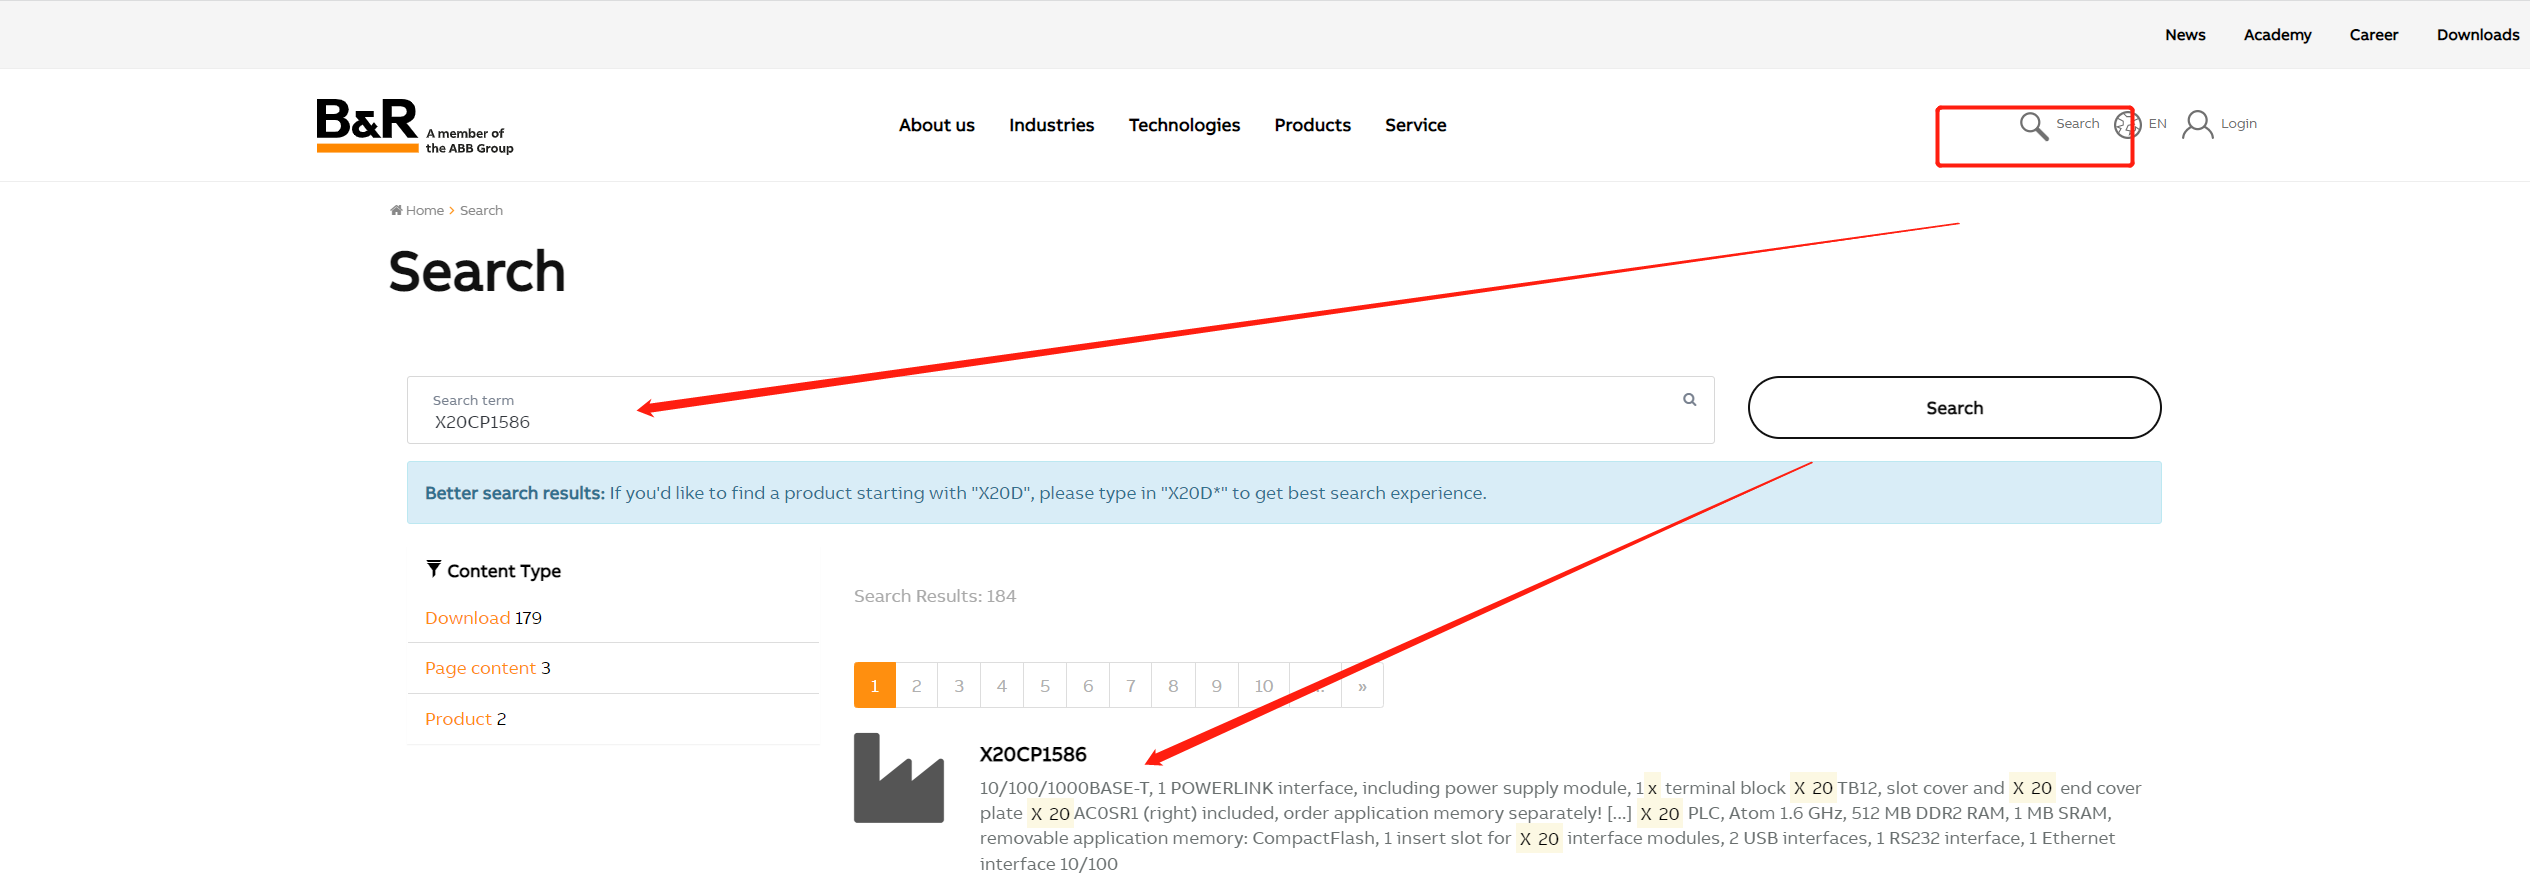
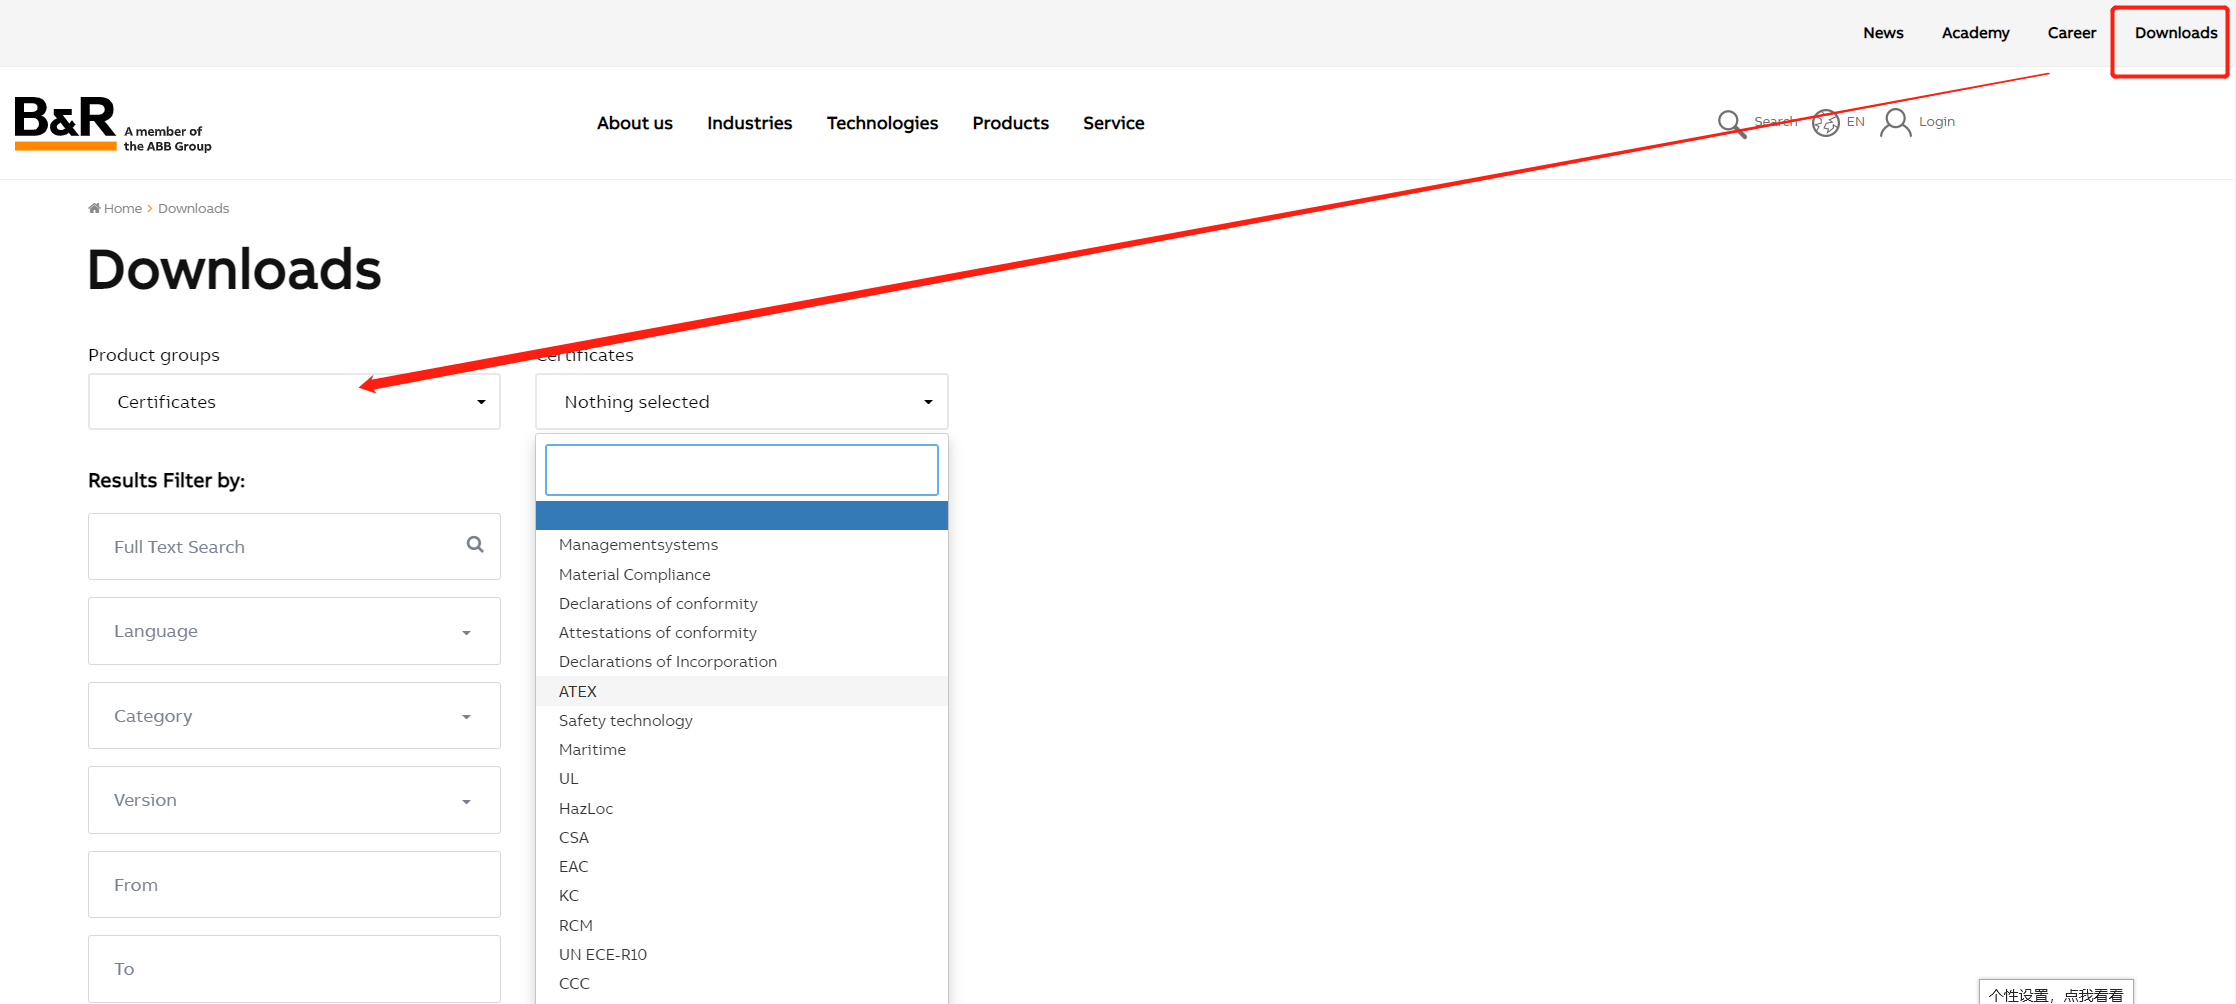
update 更新官网图片

diff --git a/A01_产品_控制系统PLC和IO/004如何获取贝加莱产品的认证证书（UL、CSA等）？.md b/A01_产品_控制系统PLC和IO/004如何获取贝加莱产品的认证证书（UL、CSA等）？.md
@@ -5,4 +5,5 @@ Tags：产品、认证证书
 A：
 登录 www.br-automation.com/download
 点击“下载”栏，随后选择所需要的认证证书进行下载即可：
-![Img](./FILES/004如何获取贝加莱产品的认证证书（UL、CSA等）？.md/img-20220528164213.png)
+
+![输入图片说明](../image.png)
